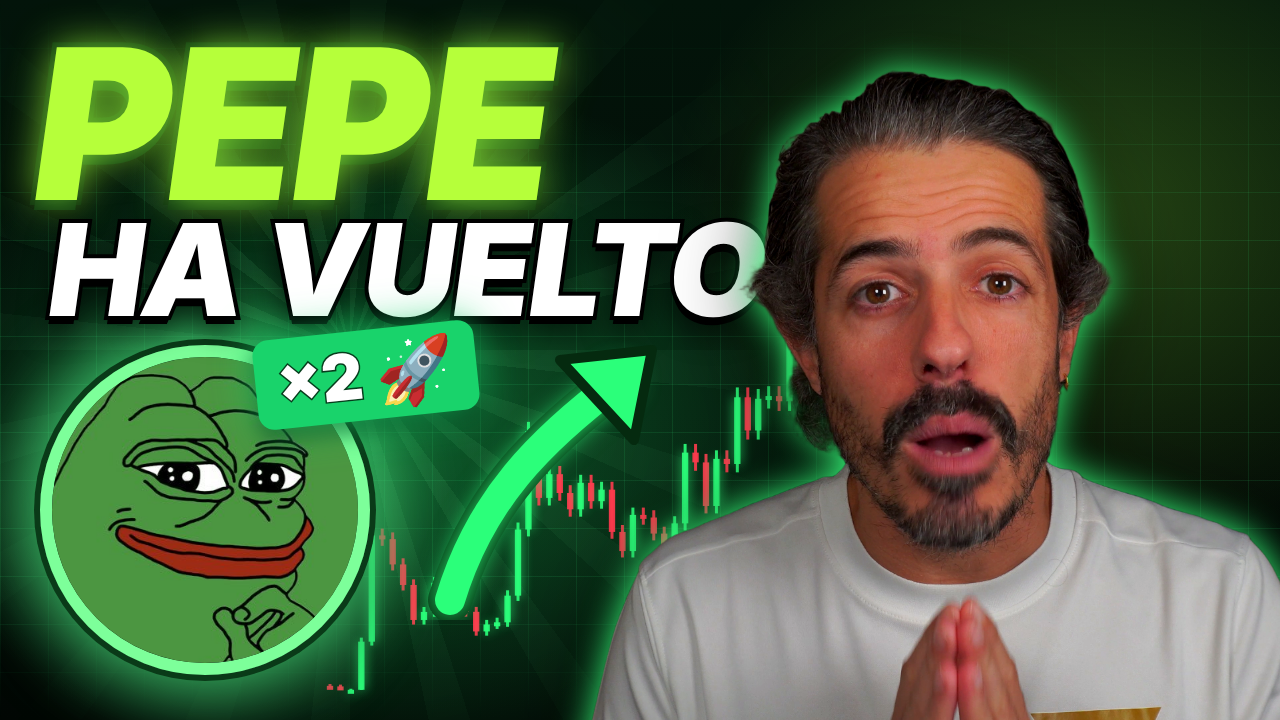
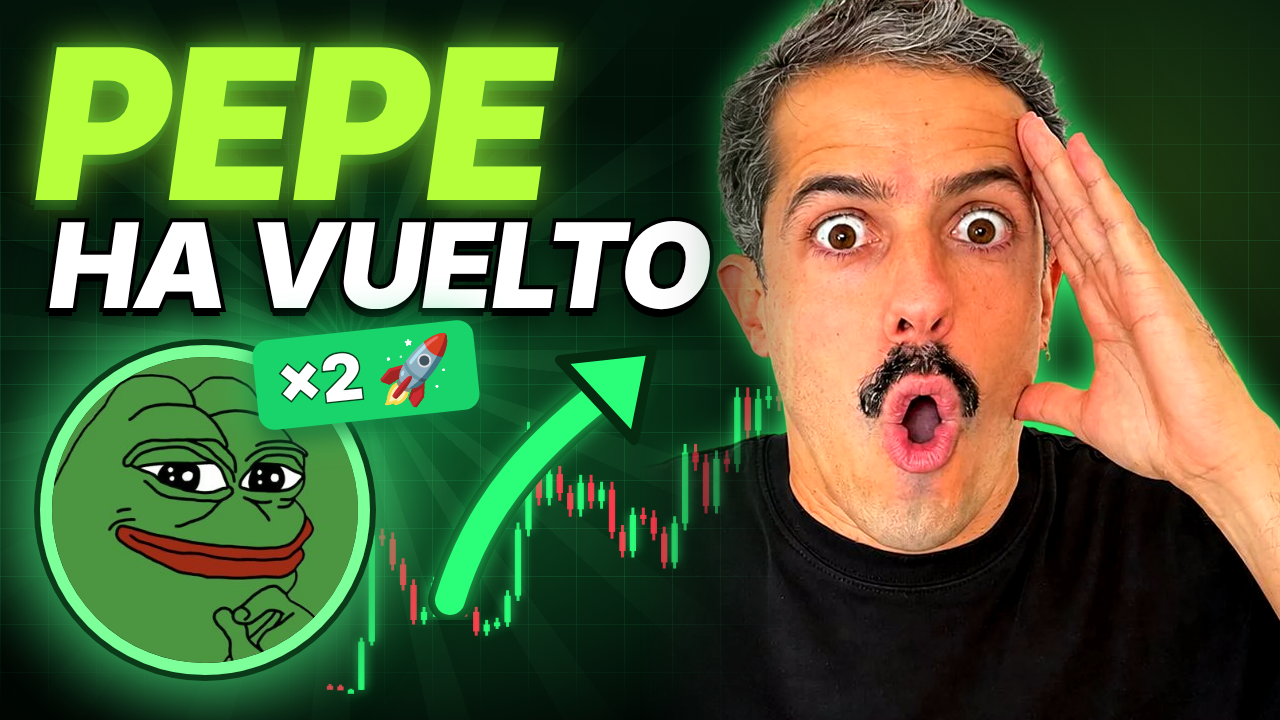
Miniatura PEPE: nueva cara
Claude-Session: https://claude.ai/code/session_01EZJ3hbwF55CfALTG1nftEC

diff --git a/edicion/miniaturas/2026-11-pepe-ha-vuelto/build.py b/edicion/miniaturas/2026-11-pepe-ha-vuelto/build.py
@@ -6,22 +6,21 @@ ARROW = '''<svg id="arrow" style="left:%dpx;top:%dpx" width="260" height="300" v
   <path d="M30 280 C 60 180, 120 120, 200 60" fill="none" stroke="#2bff7a" stroke-width="30" stroke-linecap="round" style="filter:drop-shadow(0 0 12px rgba(43,255,122,0.9))"/>
   <path d="M140 40 L232 30 L214 120 Z" fill="#2bff7a" stroke="#052a0f" stroke-width="10" stroke-linejoin="round"/></svg>'''
 V = {
-  # A: text left, coin bottom-left, person right
+  # A: same as before with the new face (person right)
   "A": dict(cx0=330, cx1=800, cy1=330, layout='''
     <div id="coin" style="left:40px;top:345px;"><img src="pepe_orig.jpg"></div>
     <div class="t pepe" style="left:36px;top:30px;">PEPE</div>
-    <div class="t back" style="left:50px;top:212px;">HA VUELTO</div>
+    <div class="t back" style="left:50px;top:212px;font-size:118px;">HA VUELTO</div>
     <div class="badge" style="left:255px;top:330px;">×2 🚀</div>
     ''' + ARROW % (420, 320) + '''
-    <img id="person" src="person_c.png">'''),
-  # B: person left, coin right, text right
-  "B": dict(cx0=470, cx1=900, cy1=360, layout='''
-    <img id="person" src="person_c.png" style="right:auto;left:-120px;height:680px;">
-    <div id="coin" style="left:880px;top:330px;width:320px;height:320px;"><img src="pepe_orig.jpg"></div>
-    <div class="t pepe" style="left:590px;top:24px;">PEPE</div>
-    <div class="t back" style="left:500px;top:205px;">HA VUELTO</div>
-    <div class="badge" style="left:780px;top:600px;transform:rotate(-4deg)">+100%</div>
-    ''' + ARROW % (640, 330)),
+    <img id="person" src="person2.png" style="right:-90px;bottom:0;height:730px;-webkit-mask-image:linear-gradient(90deg,transparent 0%,#000 22%);">'''),
+  # B: big coin centre-left, "HA VUELTO" in yellow, person right
+  "B": dict(cx0=40, cx1=760, cy1=300, layout='''
+    <div id="coin" style="left:250px;top:300px;width:390px;height:390px;"><img src="pepe_orig.jpg"></div>
+    <div class="t back" style="left:40px;top:40px;font-size:150px;">PEPE <span style="color:#ffe600">HA</span></div>
+    <div class="t back" style="left:40px;top:180px;font-size:150px;color:#ffe600;">VUELTO</div>
+    <div class="badge" style="left:40px;top:560px;transform:rotate(-6deg)">+100%</div>
+    <img id="person" src="person2.png" style="right:-90px;bottom:0;height:730px;-webkit-mask-image:linear-gradient(90deg,transparent 0%,#000 22%);">'''),
 }
 for k, v in V.items():
     h = base.replace("__SERIES__", S).replace("__LAYOUT__", v["layout"]).replace("__CX0__", str(v["cx0"])).replace("__CX1__", str(v["cx1"])).replace("__CY1__", str(v["cy1"]))

diff --git a/edicion/miniaturas/2026-11-pepe-ha-vuelto/README.md b/edicion/miniaturas/2026-11-pepe-ha-vuelto/README.md
@@ -9,3 +9,6 @@
 - **Inspiración:** miniaturas virales de PEPE/memecoins (verde neón, moneda grande con brillo, flecha verde, texto gigante con contorno).
 
 Regenerar: recortar la cara a `person_c.png`, copiar `inter-latin-900-normal.woff2` y `python3 build.py` (Playwright hace la captura).
+
+v2: cara cambiada por la foto que mandó Unai (sorpresa con la mano en la cabeza), recortada con BiRefNet-lite, ampliada ×2 y con
+el borde izquierdo (hombro cortado en la foto) difuminado con `mask-image`. B: "PEPE" blanco + "HA VUELTO" amarillo, moneda grande.
